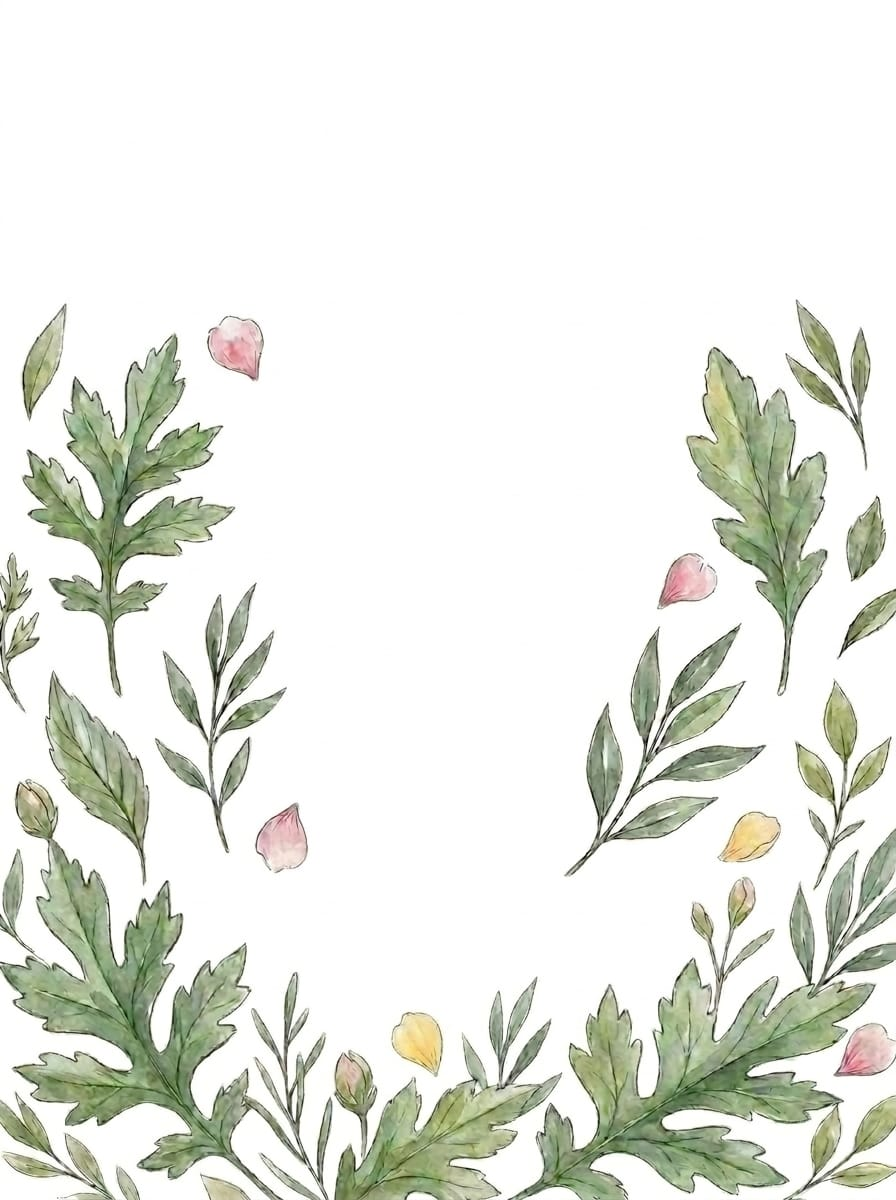
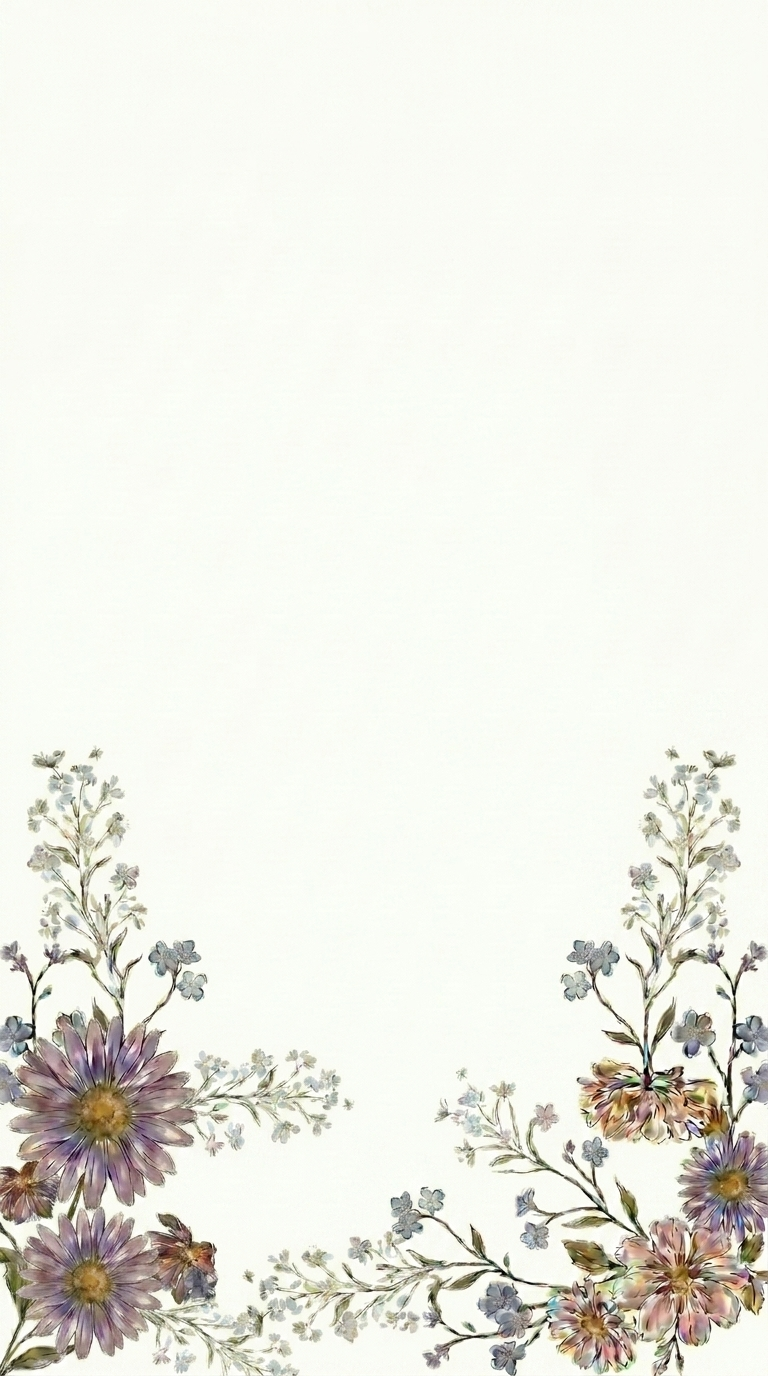
refactor(location-presents): cleanup location layouts and presents lists styles

diff --git a/src/modules/invitation/components/location/Location.tsx b/src/modules/invitation/components/location/Location.tsx
@@ -3,10 +3,6 @@ import React from 'react'
 import { SectionHeader, ScrollReveal } from '@/common/components'
 import { getEnvVariables } from '@/common/helpers/get-env-variables'
 import { LocationSection } from './LocationSection'
-
-import hacienda from '@/assets/images/salon.png'
-import cathedral from '@/assets/images/templo.png'
-
 import './_location.scss'
 
 const {
@@ -25,53 +21,46 @@ export const Location: React.FC = () => {
     return (
         <main className='location'>
             <div className="location__container">
-                <ScrollReveal direction="none" blur={8} scale={0.94} duration={3.0} delay={0.4}>
-                    <SectionHeader
-                        title='Ubicaciones'
-                        subtitle='Los senderos del jardín'
-                        className='text-primary'
-                    />
-                </ScrollReveal>
-
-                <ScrollReveal direction="up" distance={25} duration={3.2} delay={1.2}>
-                    <div className="location__message">
-                        <p>Nuestra historia no estaría completa sin ti. Nos haría inmensamente felices contar con tu presencia.</p>
+                <ScrollReveal direction="none" blur={3} scale={0.98} duration={1.0} delay={0.1}>
+                    <div className="location__header">
+                        <i className='bxf bx-location'></i>
+                        <SectionHeader
+                            title='Ubicaciones'
+                            subtitle='Los senderos del jardín'
+                            className='text-primary'
+                        />
                     </div>
                 </ScrollReveal>
 
-                <div className="location__line"></div>
+                <ScrollReveal direction="up" distance={20} duration={1.0} delay={0.25}>
+                    <div className="location__message">
+                        <p>Les compartimos la información de los lugares donde se llevarán a cabo los eventos, para que puedan planificar su llegada con anticipación.</p>
+                    </div>
+                </ScrollReveal>
 
-                <LocationSection
-                    concept='Ceremonia Religiosa'
-                    name={VITE_CURCH_NAME}
-                    location={VITE_CURCH_LOCATION}
-                    hour={VITE_CURCH_HOUR}
-                    buttonUrl={VITE_CURCH_URL_MAPS}
-                    image={cathedral}
-                    cardDirection="right"
-                    cardRotate={-2}
-                    cardDelay={1}
-                    imageDirection="left"
-                    imageRotate={2}
-                    imageDelay={2.8}
-                />
+                <section className="location__sections">
+                    <LocationSection
+                        concept='Ceremonia Religiosa'
+                        name={VITE_CURCH_NAME}
+                        location={VITE_CURCH_LOCATION}
+                        hour={VITE_CURCH_HOUR}
+                        buttonUrl={VITE_CURCH_URL_MAPS}
+                        cardDirection="right"
+                        cardRotate={-2}
+                        cardDelay={0.3}
+                    />
 
-                <div className="location__line"></div>
-
-                <LocationSection
-                    concept='Recepción'
-                    name={VITE_RECEPTION_NAME}
-                    location={VITE_RECEPTION_LOCATION}
-                    hour={VITE_RECEPTION_HOUR}
-                    buttonUrl={VITE_RECEPTION_URL_MAPS}
-                    image={hacienda}
-                    cardDirection="left"
-                    cardRotate={2}
-                    cardDelay={1}
-                    imageDirection="right"
-                    imageRotate={-2}
-                    imageDelay={3.2}
-                />
+                    <LocationSection
+                        concept='Recepción'
+                        name={VITE_RECEPTION_NAME}
+                        location={VITE_RECEPTION_LOCATION}
+                        hour={VITE_RECEPTION_HOUR}
+                        buttonUrl={VITE_RECEPTION_URL_MAPS}
+                        cardDirection="left"
+                        cardRotate={2}
+                        cardDelay={0.5}
+                    />
+                </section>
             </div>
         </main>
     )

diff --git a/src/modules/invitation/components/location/_location.scss b/src/modules/invitation/components/location/_location.scss
@@ -1,7 +1,7 @@
 .location {
-    background-color: variables.$color-primary-50;
+    background-color: $color-primary-200;
     position: relative;
-    padding: 8rem 0;
+    padding: 12rem 0;
 
     &__background {
         opacity: .8;
@@ -12,6 +12,18 @@
         width: 100%;
         background-size: cover;
         background-repeat: no-repeat;
+    }
+
+    &__header {
+        display: flex;
+        justify-content: center;
+        flex-direction: column;
+        align-items: center;
+        gap: 2rem;
+
+        i {
+            font-size: 2rem;
+        }
     }
 
     &__container {
@@ -28,31 +40,36 @@
         p {
             font-size: 1.4rem;
             line-height: 1.8;
-            color: variables.$color-primary-800;
+            color: $color-primary-800;
         }
     }
 
-    &__line {
-        margin: 2rem auto;
-        @include mixins.line(6rem, 'bottom');
+    &__sections {
+        display: flex;
+        flex-direction: column;
+        gap: 4rem;
+        margin-top: 5rem;
     }
+
+
 
     &__card {
         margin: 0 auto;
-        width: 85%;
+        width: 80%;
         padding: 2rem;
-        border: 1px solid rgba(variables.$color-tertiary-800, .6);
+        border: 1px solid rgba($color-tertiary-800, .6);
+        box-shadow: 0 4px 10px rgba(0, 0, 0, 0.25);
         display: flex;
         flex-direction: column;
         align-items: center;
         gap: 1.6rem;
-        background-color: variables.$color-bg;
+        background-color: $color-bg;
         opacity: .9;
         text-align: center;
-        @include mixins.folded-corners(4rem, 'top-right');
+        @include mixins.folded-corners(2rem, 'both');
 
         &-type {
-            color: variables.$color-secondary-500;
+            color: $color-secondary-500;
             font-family: 'Pinyon Script', cursive;
             font-size: 2.4rem;
         }
@@ -65,13 +82,13 @@
 
         &-address {
             font-size: 1.6rem;
-            color: variables.$color-neutral-700;
+            color: $color-neutral-700;
         }
 
         &-hour {
             font-size: 3rem;
             font-weight: 400;
-            color: variables.$color-tertiary-800;
+            color: $color-tertiary-800;
         }
 
         &-button {
@@ -85,17 +102,6 @@
 
     }
 
-    &__section {
-        &-image {
-            margin: 3rem auto;
-            max-width: 50%;
-            height: auto;
 
-            img {
-                opacity: .6;
-            }
-        }
-
-    }
 
 }

diff --git a/src/modules/invitation/components/presents/_presents.scss b/src/modules/invitation/components/presents/_presents.scss
@@ -1,9 +1,11 @@
 .presents {
     position: relative;
-    padding: 8rem 0;
+    padding: 5rem 0;
+    padding-bottom: 12rem;
 
     &__bg {
-        @include mixins.backgroundImage;
+        @include mixins.backgroundImage(0.9);
+        margin-bottom: -10rem;
     }
 
     &__container {
@@ -13,7 +15,7 @@
 
     &__message {
         text-align: center;
-        width: 90%;
+        width: 80%;
         margin: 3rem auto 3rem;
         padding: 0 2rem;
         font-size: 1.4rem;
@@ -43,16 +45,7 @@
         }
     }
 
-    &__image {
-        position: absolute;
-        bottom: 0;
-        left: 0;
-        width: 100%;
-        height: 100%;
-        z-index: -1;
-        overflow: hidden;
-        opacity: .1;
-    }
+
 
 }
 

diff --git a/src/modules/invitation/components/location/LocationSection.tsx b/src/modules/invitation/components/location/LocationSection.tsx
@@ -8,13 +8,9 @@ interface Props {
     location: string;
     hour: string;
     buttonUrl: string;
-    image: string;
     cardDirection?: 'up' | 'down' | 'left' | 'right' | 'none';
     cardRotate?: number;
     cardDelay?: number;
-    imageDirection?: 'up' | 'down' | 'left' | 'right' | 'none';
-    imageRotate?: number;
-    imageDelay?: number;
 }
 
 export const LocationSection: React.FC<Props> = ({
@@ -23,17 +19,13 @@ export const LocationSection: React.FC<Props> = ({
     location,
     hour,
     buttonUrl,
-    image,
     cardDirection = 'right',
     cardRotate = 0,
-    cardDelay = 0.2,
-    imageDirection = 'left',
-    imageRotate = 0,
-    imageDelay = 0.4
+    cardDelay = 0.2
 }) => {
     return (
         <section className='location__section'>
-            <ScrollReveal direction={cardDirection} distance={50} rotate={cardRotate} duration={3.5} delay={cardDelay}>
+            <ScrollReveal direction={cardDirection} distance={30} rotate={cardRotate} duration={1.2} delay={cardDelay}>
                 <div className="location__card">
                     <span className='location__card-type'>{concept}</span>
                     <h3 className='location__card-title'>{name}</h3>
@@ -46,12 +38,6 @@ export const LocationSection: React.FC<Props> = ({
                             Ver Ubicación
                         </Button>
                     </div>
-                </div>
-            </ScrollReveal>
-
-            <ScrollReveal direction={imageDirection} distance={50} scale={1.03} rotate={imageRotate} duration={3.5} delay={imageDelay} blur={8}>
-                <div className="location__section-image opacity-75">
-                    <img src={image} alt={name} loading="lazy" />
                 </div>
             </ScrollReveal>
         </section>

diff --git a/src/modules/invitation/components/presents/Presents.tsx b/src/modules/invitation/components/presents/Presents.tsx
@@ -17,18 +17,18 @@ export const Presents: React.FC = () => {
         <section className='presents'>
             <div className='presents__bg' style={{ backgroundImage: `url(${bg})` }} />
             <div className="presents__container">
-                <ScrollReveal direction="down" distance={40} blur={8} duration={3.0} delay={0.5}>
+                <ScrollReveal direction="down" distance={20} blur={3} duration={1.0} delay={0.1}>
                     <SectionHeader
                         title='Regalos'
                         subtitle='Lo material no es lo importante'
                     />
                 </ScrollReveal>
 
-                <ScrollReveal direction="none" scale={0.94} rotateX={6} blur={8} duration={3.5} delay={1.8}>
+                <ScrollReveal direction="none" scale={0.98} rotateX={2} blur={3} duration={1.0} delay={0.25}>
                     <p className="presents__message">Su compañía es el mejor regalo, sin embargo, si desean contribuir a nuestro nuevo hogar, les compartimos algunas opciones. </p>
                 </ScrollReveal>
 
-                <ScrollReveal direction="up" distance={70} rotateX={8} scale={0.97} duration={3.8} delay={3.0}>
+                <ScrollReveal direction="up" distance={30} rotateX={3} scale={0.99} duration={1.2} delay={0.4}>
                     <div className="presents__options">
                         <Accordion>
                             <AccordionItem